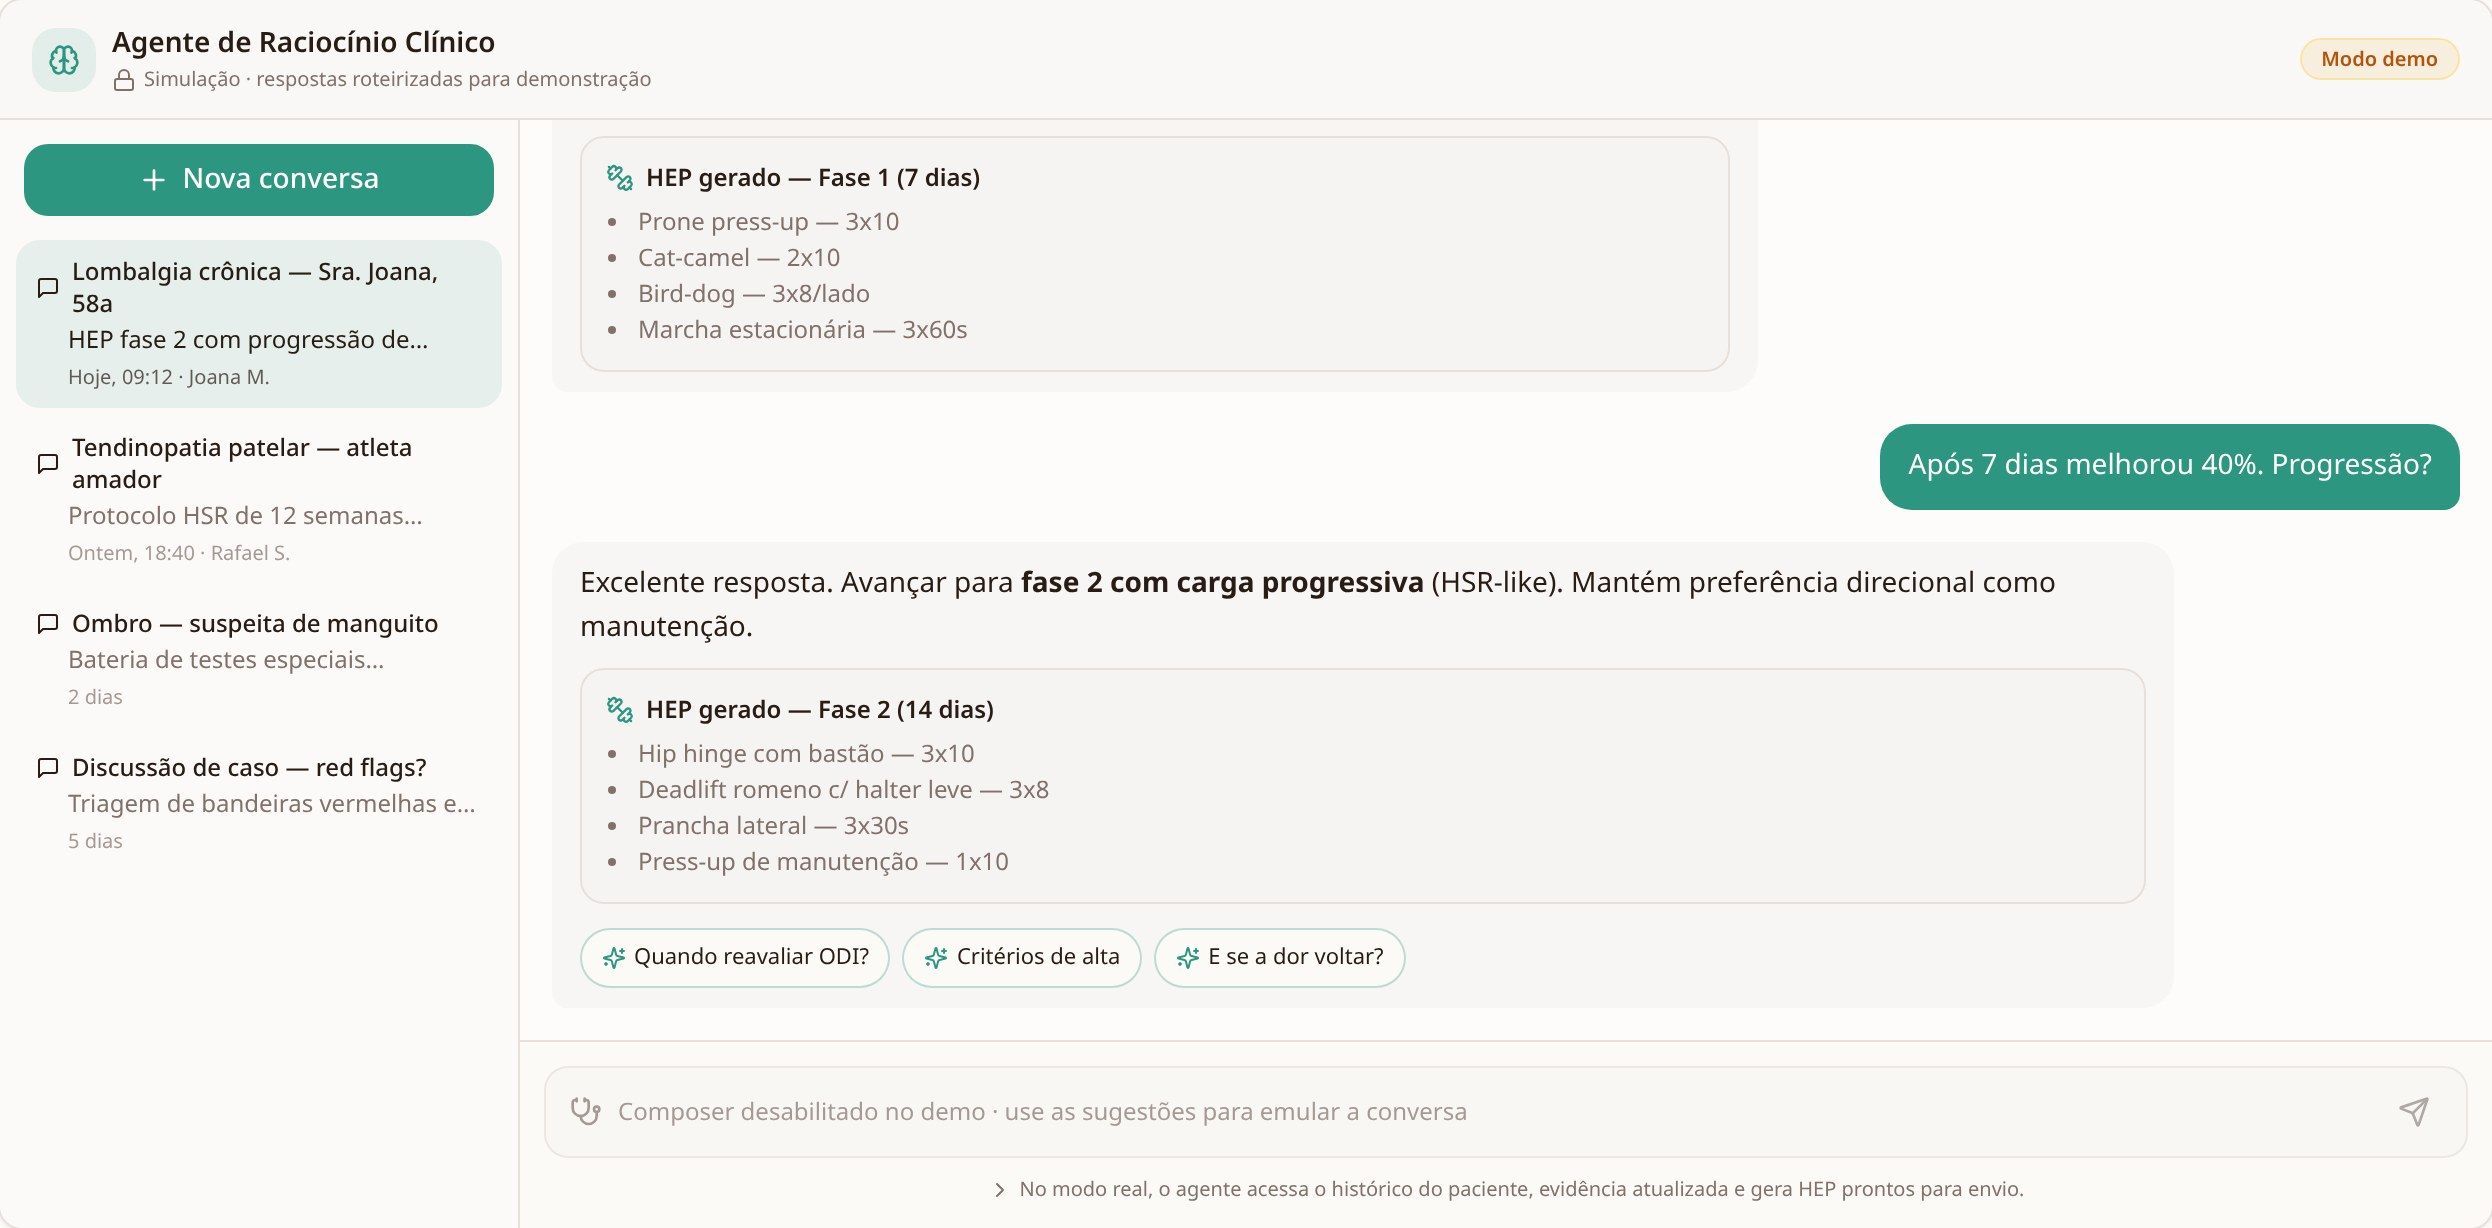
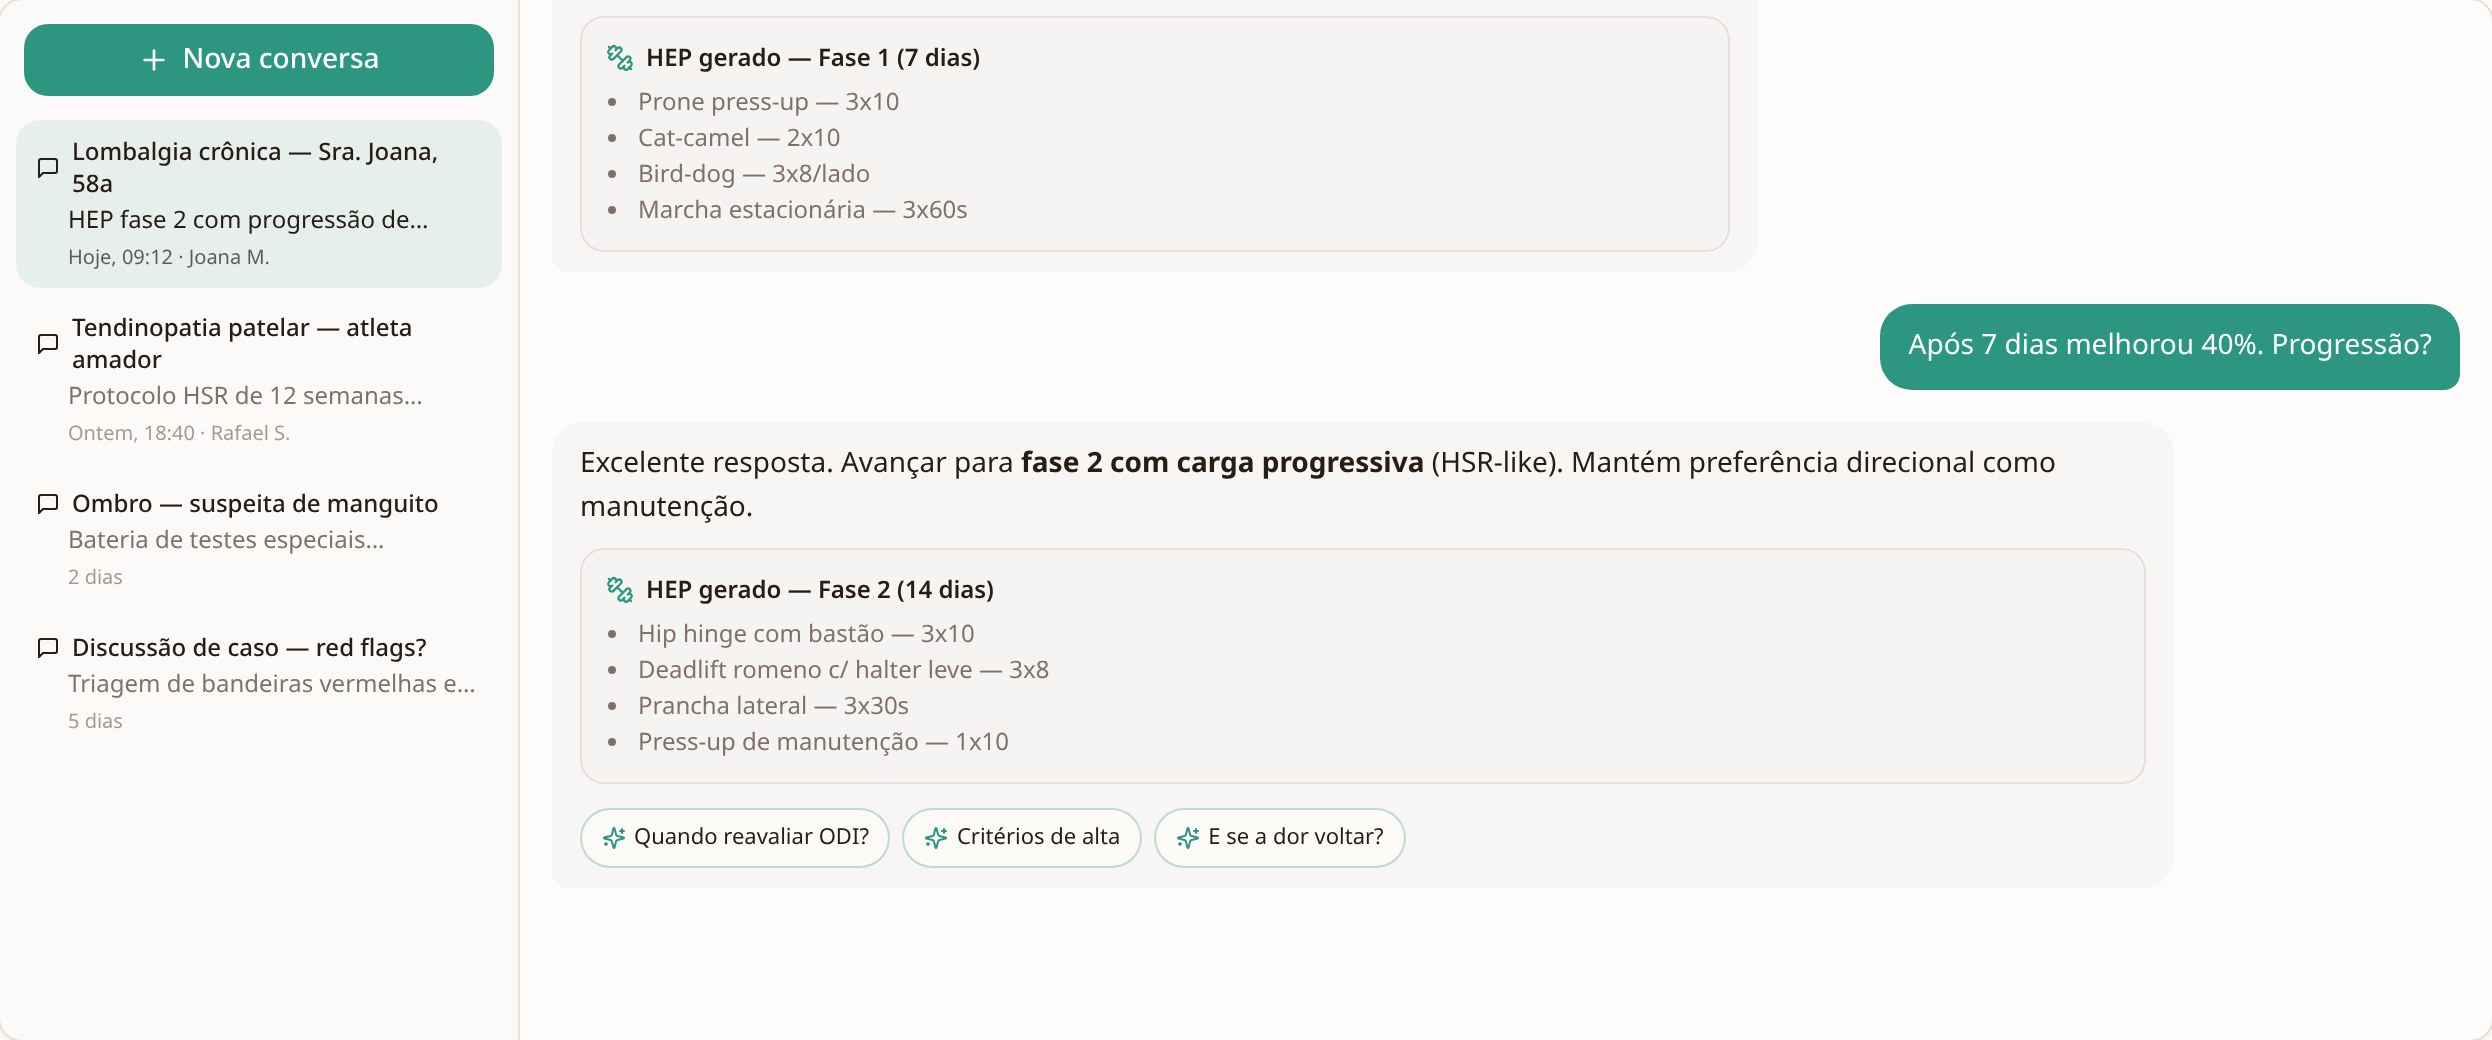
Changes

diff --git a/scripts/capture-studio-shots.py b/scripts/capture-studio-shots.py
@@ -42,7 +42,21 @@ TARGETS = {
 
 
 
+
+CLEAN_JS = """() => {
+  const junk = ['Modo demo', 'Assinar PRO', 'Iniciar trial', 'Composer desabilitado', 'DEMO'];
+  document.querySelectorAll('div,span,a,button,section').forEach((el) => {
+    const t = (el.textContent || '').trim();
+    if (!t || t.length > 220) return;
+    if (!junk.some((j) => t.includes(j))) return;
+    if (el.getBoundingClientRect().height > 220) return;
+    el.style.display = 'none';
+  });
+}"""
+
+
 async def shoot(page, topic, anchor):
+    await page.evaluate(CLEAN_JS)
     path = os.path.join(OUT_DIR, f"{topic}.jpg")
     if anchor:
         # Sobe a árvore a partir do texto-âncora até achar um container com altura
